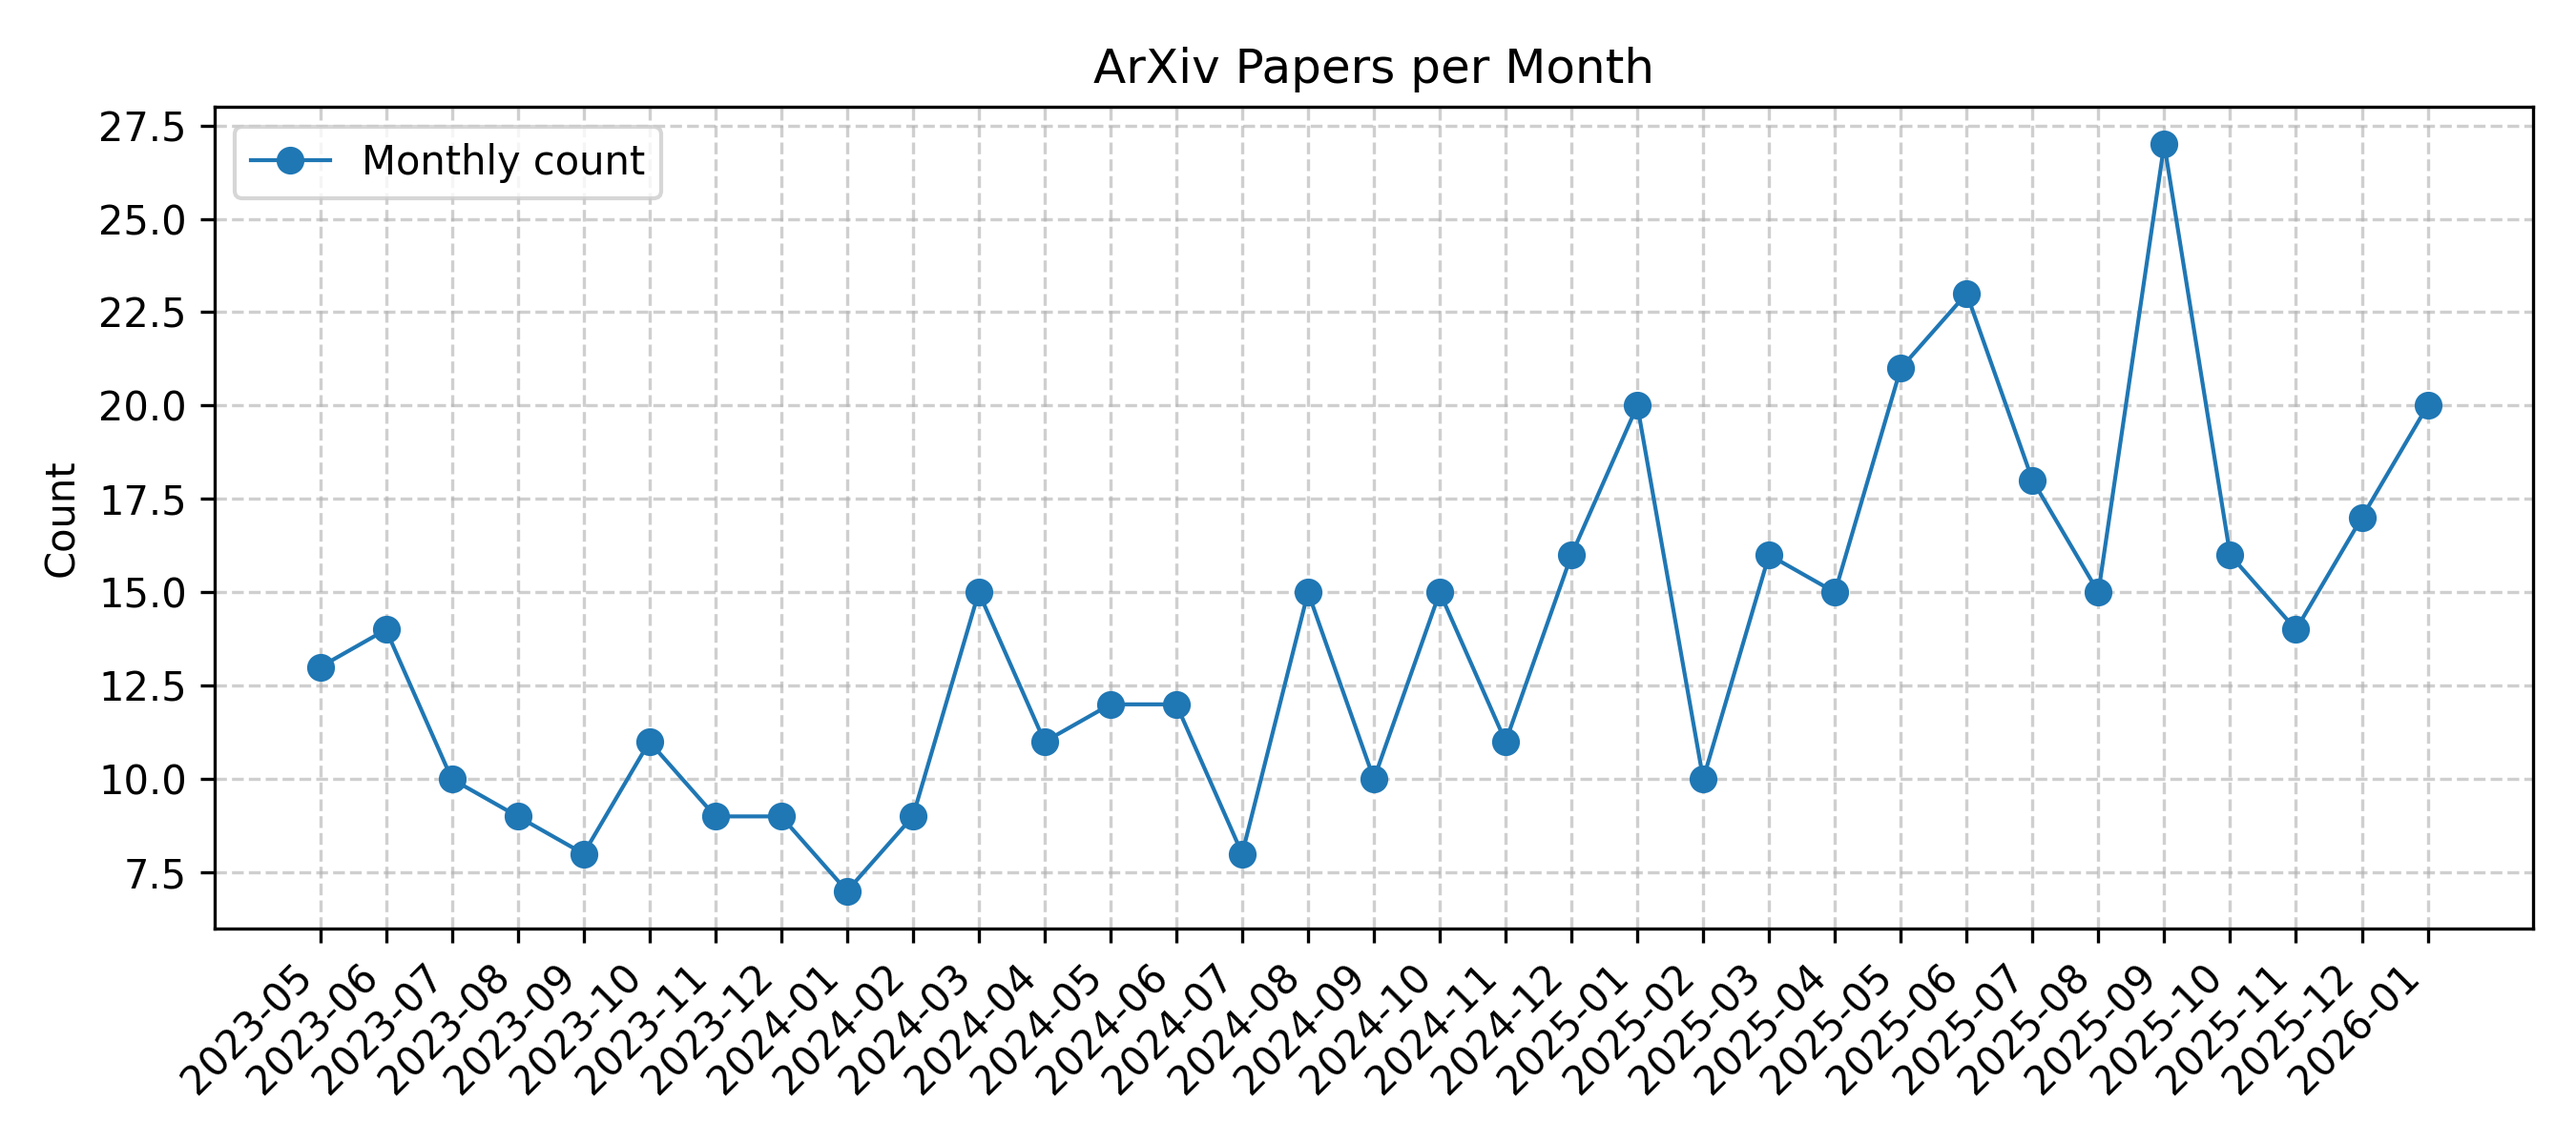
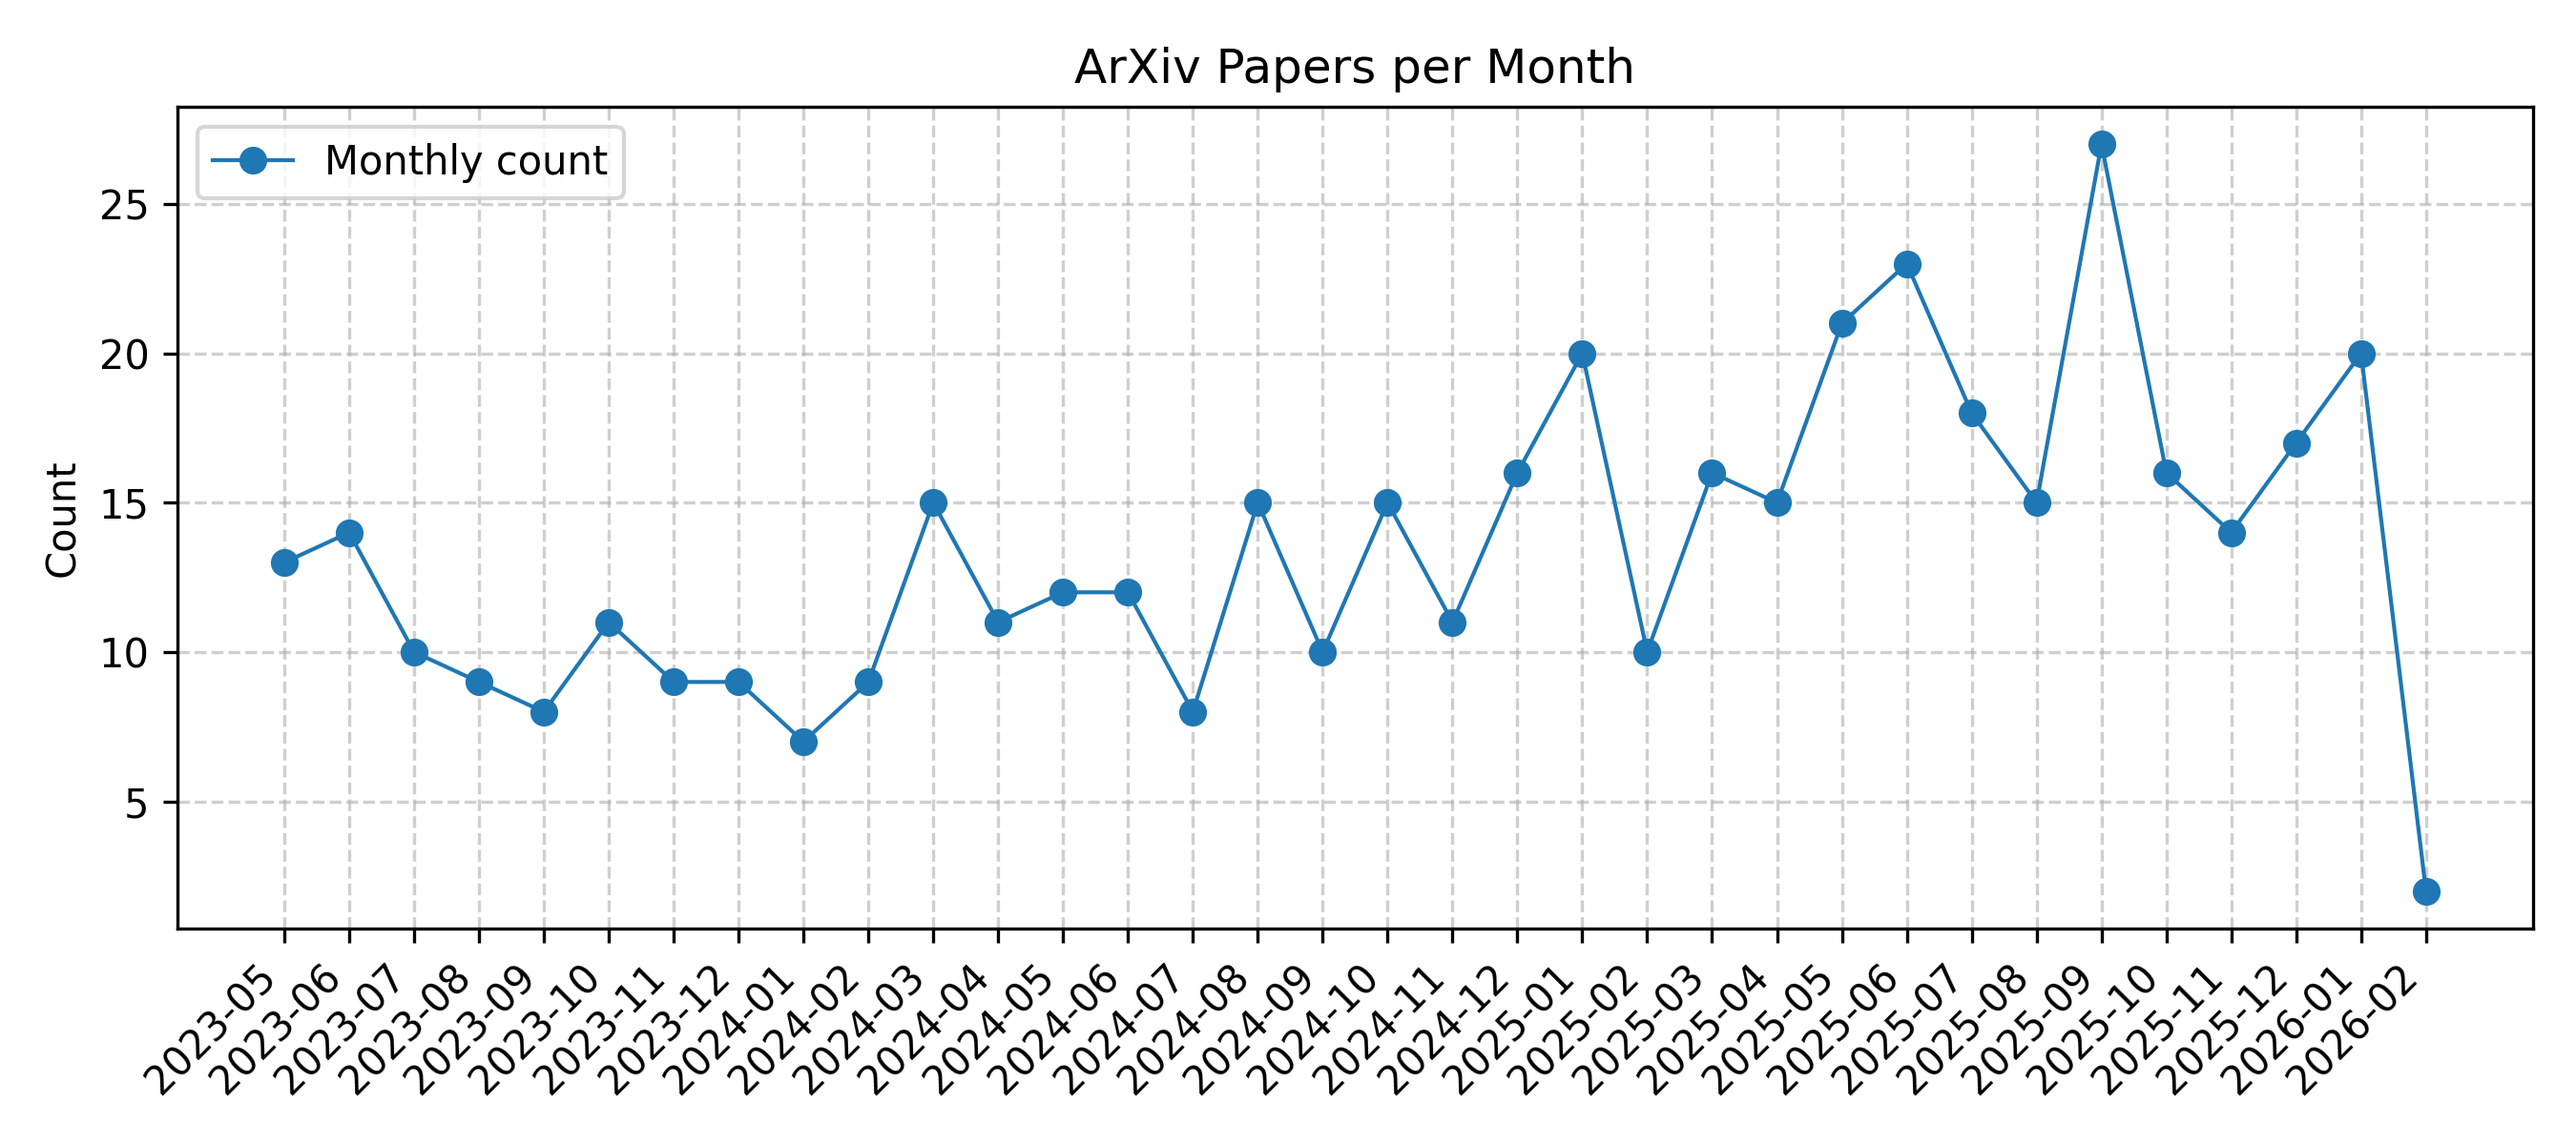
Github Action Automatic Update Diffusion NLP Arxiv Papers

diff --git a/README.md b/README.md
@@ -5,7 +5,7 @@
 
 This repository tracks the latest GraphRAG related papers from arXiv.
 
-## Updated on 2026.02.02
+## Updated on 2026.02.03
 
 ![Monthly Trend](imgs/trend.png)
 
@@ -13,6 +13,8 @@ This repository tracks the latest GraphRAG related papers from arXiv.
 
 |Date|Title|PDF|Code|
 |---|---|---|---|
+|**2026-02-02**|**WildGraphBench: Benchmarking GraphRAG with Wild-Source Corpora**|[2602.02053v1](http://arxiv.org/abs/2602.02053v1)| **[code](https://github.com/BstWPY/WildGraphBench)**|
+|**2025-11-27**|**Unlocking Electronic Health Records: A Hybrid Graph RAG Approach to Safe Clinical AI for Patient QA**|[2602.00009v1](http://arxiv.org/abs/2602.00009v1)| null|
 |**2026-01-29**|**Bridging Graph Structure and Knowledge-Guided Editing for Interpretable Temporal Knowledge Graph Reasoning**|[2601.21978v1](http://arxiv.org/abs/2601.21978v1)| null|
 |**2026-01-26**|**FastInsight: Fast and Insightful Retrieval via Fusion Operators for Graph RAG**|[2601.18579v1](http://arxiv.org/abs/2601.18579v1)| null|
 |**2026-01-25**|**ProGraph-R1: Progress-aware Reinforcement Learning for Graph Retrieval Augmented Generation**|[2601.17755v1](http://arxiv.org/abs/2601.17755v1)| null|
@@ -470,7 +472,7 @@ This repository tracks the latest GraphRAG related papers from arXiv.
 |**2024-03-04**|**Pre-trained Language Model with Prompts for Temporal Knowledge Graph Completion**|[2305.07912v2](http://arxiv.org/abs/2305.07912v2)| null|
 |**2023-09-20**|**ACTC: Active Threshold Calibration for Cold-Start Knowledge Graph Completion**|[2305.06395v3](http://arxiv.org/abs/2305.06395v3)| null|
 
-<p align=right>(<a href=#Updated-on-20260202>back to top</a>)</p>
+<p align=right>(<a href=#Updated-on-20260203>back to top</a>)</p>
 
 [contributors-shield]: https://img.shields.io/github/contributors/bansky-cl/graphrag-arxiv-daily-paper.svg?style=for-the-badge
 [contributors-url]: https://github.com/bansky-cl/graphrag-arxiv-daily-paper/graphs/contributors
